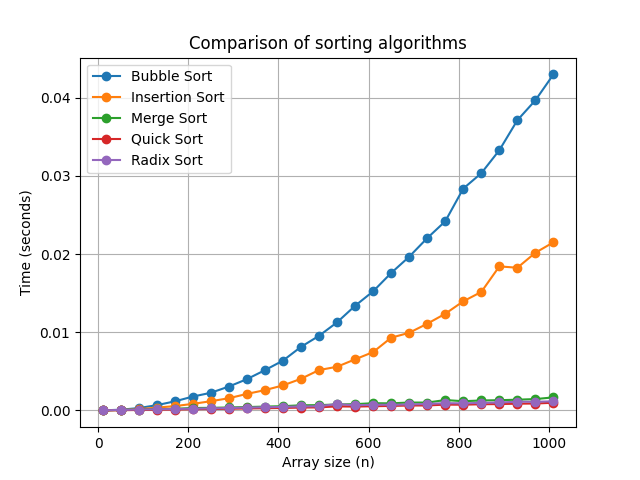
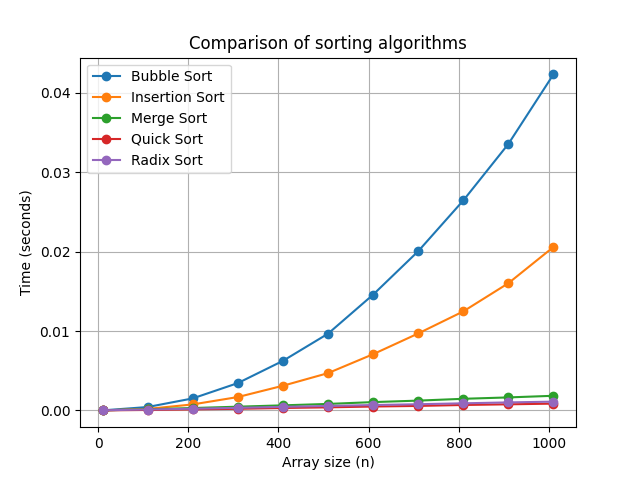
feat: Created test for sorting algorithms, refactor: changed comparison algorithm to use min value fixed: merge sort logic

diff --git a/src/main.py b/src/main.py
@@ -2,7 +2,6 @@ import pandas as pd
 import matplotlib.pyplot as plt
 import random
 import algorithms as alg
-import statistics as st
 import time
 import os
 
@@ -30,25 +29,24 @@ algorithms = {
     "Quick Sort": timer(alg.quick_sort),
     "Radix Sort":timer(alg.radix_sort),
 }
-sizes = [n for n in range(10,1011,40)]
-sizes_big =[n for n in range(1000, 10001, 200)]
+sizes = [n for n in range(10,1011,100)]
+sizes_big =[n for n in range(1000, 10001, 1000)]
+
 def compare_algorithms(listed_algs: dict, sizes):
-    results = [{} for _ in range(len(sizes))]
-    temp = []
-    i = 0
+    results = []
     for size in sizes:
+        row = {}
         for name, func in listed_algs.items():
-            temp = []
-            for _ in range(30):
+            durations = []
+            for _ in range(10):
                 arr = generate_list(size)
                 if name == "Quick Sort":
-                    _, duration = func(arr, 0 , len(arr)-1)
+                    _, duration = func(arr, 0, len(arr) - 1)
                 else:
-                    _, duration = func(arr)    
-                temp.append(duration)
-            results[i][name] = st.mean(temp)
-        i+=1
-            
+                    _, duration = func(arr)
+                durations.append(duration)
+            row[name] = min(durations)
+        results.append(row)
     return sizes, results
 
     
@@ -74,6 +72,8 @@ def generate_plot(savepath, sizes, pathtometrics):
     plt.savefig(savepath)
     plt.show()
 
+generate_plot(PATH_TO_SAVE_PLOT, sizes, PATH_TO_SAVE_TABLE)
+generate_plot(PATH_TO_SAVE_PLOT_BIG, sizes_big, PATH_TO_SAVE_TABLE_BIG)
 
 
 

diff --git a/tests/test.py b/tests/test.py
@@ -1,0 +1,49 @@
+from src import algorithms as alg
+
+test_cases = {
+    "empty": [],
+    "single": [1],
+    "random": [3, 1, 4, 1, 5, 9, 2, 6, 5],
+    "sorted": [1, 2, 3, 4, 5, 6, 7, 8, 9],
+    "reversed": [9, 8, 7, 6, 5, 4, 3, 2, 1],
+    "duplicates": [2, 2, 1, 1, 3, 3, 2, 1],
+    "negative": [-3, 0, -1, 5, -2, 10],
+    "large_range": [1000, 1, 500, 200, 0]
+}
+algorithms = {
+    "Bubble Sort": alg.bubble_sort, 
+    "Insertion Sort": alg.insertion_sort, 
+    "Merge Sort": alg.merge_sort,
+    "Quick Sort": alg.quick_sort,
+    "Radix Sort":alg.radix_sort,
+}
+
+
+def test_all():
+    for name, func in algorithms.items():
+        print(f"Testing: {name}")
+        for t_type, arr in test_cases.items():
+            if name == "Radix Sort" and t_type == "negative":
+                continue
+            _arr = arr.copy()
+            expected = sorted(arr)
+            
+            if name == "Quick Sort":
+                func(_arr, 0, len(_arr) - 1)
+            else:
+                result = func(_arr)
+                if result is not None:
+                    _arr = result
+            try:
+                assert _arr == expected
+                print(f"  ✅ {t_type}: OK")
+            except AssertionError:
+                print(f"  ❌ {t_type}: ERROR")
+                print(f"     expected: {expected}")
+                print(f"     received: {_arr}")
+
+if __name__ == "__main__":
+    test_all()
+
+
+

diff --git a/src/algorithms.py b/src/algorithms.py
@@ -34,7 +34,7 @@ def merge(left, right):
             j+=1
     
     sorted_array.extend(left[i:])
-    sorted_array.extend(left[j:])
+    sorted_array.extend(right[j:])
     return sorted_array
 
 def merge_sort(arr):
